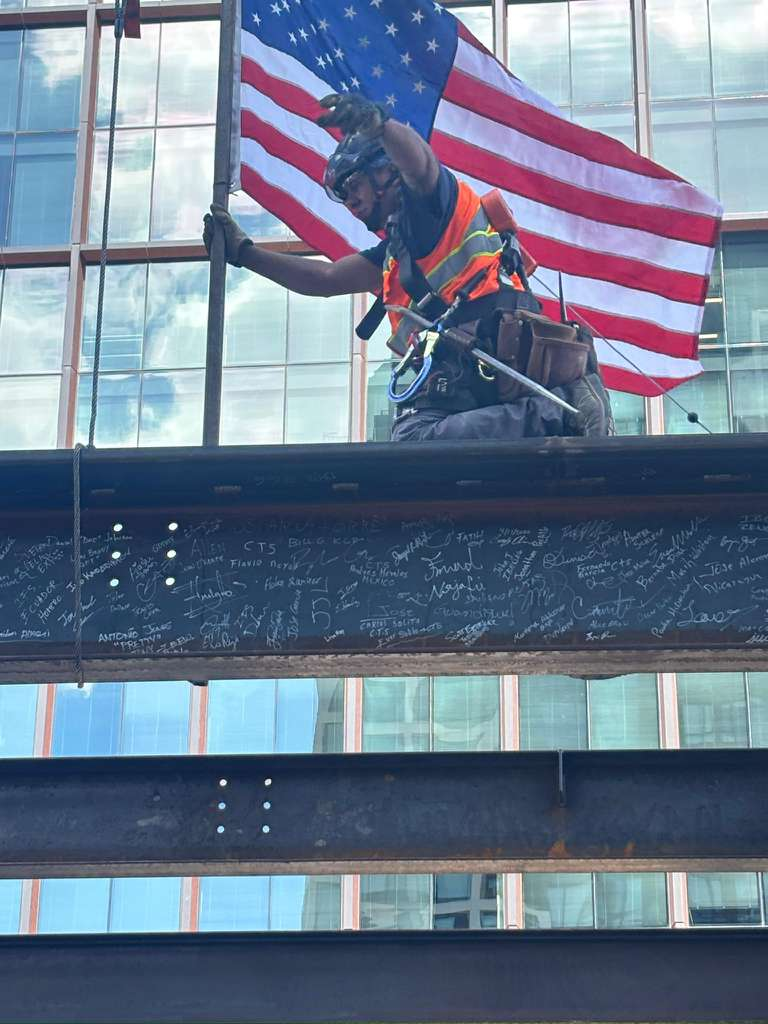
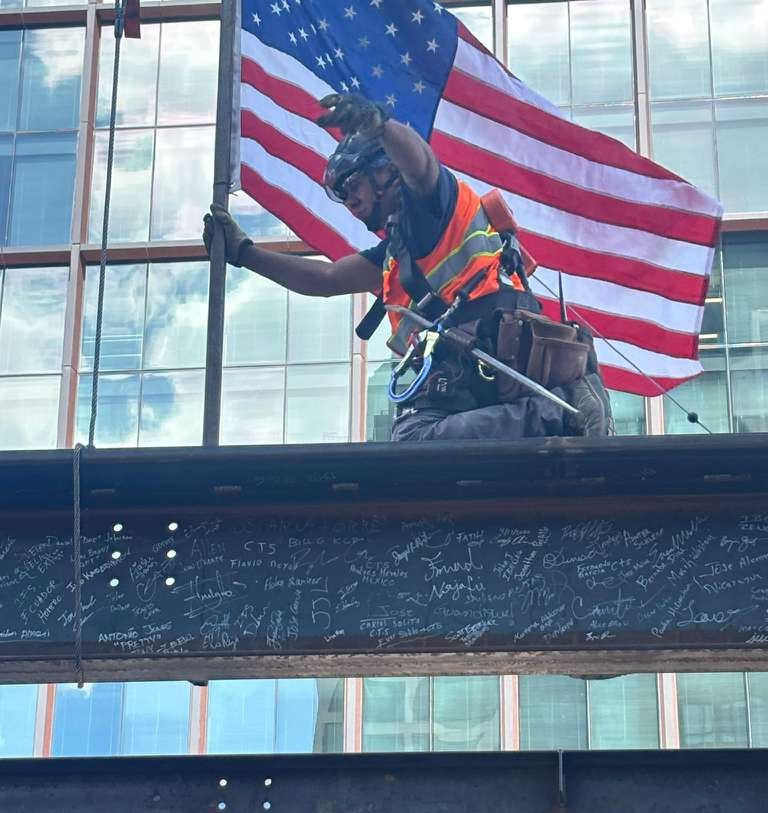
feat: add about, partners, and main pages with hero slider and navigation components

diff --git a/src/app/partners/page.tsx b/src/app/partners/page.tsx
@@ -7,47 +7,73 @@ export default function Partners() {
     { name: "CBG", image: "/images/Partners logos/CBG-Logo.png" },
     { name: "GCS-SIGAL", image: "/images/Partners logos/GCS-SIGAL-Logo.jpg" },
     { name: "Grunley", image: "/images/Partners logos/Grunley-Logo.jpg" },
-    { name: "Iron Fab INC", image: "/images/Partners logos/Iron Fab INC Logo.png" },
     { name: "NRP Group", image: "/images/Partners logos/NRP Group-Logo.png" },
     { name: "SIE", image: "/images/Partners logos/SIE cropped Logo.png" },
-    { name: "SmootDC", image: "/images/Partners logos/SmootDC-Logo.png" }
+    { name: "SmootDC", image: "/images/Partners logos/SmootDC-Logo.png" },
   ];
 
   return (
-    <div style={{ paddingTop: '100px', minHeight: '100vh', background: 'transparent' }}>
+    <div
+      style={{
+        paddingTop: "100px",
+        minHeight: "100vh",
+        background: "transparent",
+      }}
+    >
       <div className="container section">
-        <h1 className="section-title">Our <span>Partners</span></h1>
-        
-        <div style={{ background: '#FFFFFF', padding: 'clamp(1.5rem, 5vw, 4rem)', border: '1px solid var(--color-border)', borderRadius: '4px', boxShadow: '0 4px 10px rgba(0,0,0,0.05)' }}>
-          <div style={{ display: 'grid', gridTemplateColumns: 'repeat(auto-fit, minmax(200px, 1fr))', gap: '4rem', alignItems: 'center', justifyItems: 'center' }}>
+        <h1 className="section-title">
+          Our <span>Partners</span>
+        </h1>
+
+        <div
+          style={{
+            background: "#FFFFFF",
+            padding: "clamp(1.5rem, 5vw, 4rem)",
+            border: "1px solid var(--color-border)",
+            borderRadius: "4px",
+            boxShadow: "0 4px 10px rgba(0,0,0,0.05)",
+          }}
+        >
+          <div
+            style={{
+              display: "grid",
+              gridTemplateColumns: "repeat(auto-fit, minmax(200px, 1fr))",
+              gap: "4rem",
+              alignItems: "center",
+              justifyItems: "center",
+            }}
+          >
             {partners.map((partner, index) => (
-              <div key={index} style={{
-                display: 'flex',
-                alignItems: 'center',
-                justifyContent: 'center',
-                padding: '1rem',
-                width: '100%',
-                height: '120px',
-                background: '#FFFFFF',
-                borderRadius: '8px',
-                transition: 'transform 0.3s ease, box-shadow 0.3s ease',
-                cursor: 'pointer',
-                position: 'relative'
-              }}
-              onMouseEnter={(e) => {
-                e.currentTarget.style.transform = 'translateY(-5px)';
-                e.currentTarget.style.boxShadow = '0 10px 20px rgba(0,0,0,0.1)';
-              }}
-              onMouseLeave={(e) => {
-                e.currentTarget.style.transform = 'translateY(0)';
-                e.currentTarget.style.boxShadow = 'none';
-              }}
+              <div
+                key={index}
+                style={{
+                  display: "flex",
+                  alignItems: "center",
+                  justifyContent: "center",
+                  padding: "1rem",
+                  width: "100%",
+                  height: "120px",
+                  background: "#FFFFFF",
+                  borderRadius: "8px",
+                  transition: "transform 0.3s ease, box-shadow 0.3s ease",
+                  cursor: "pointer",
+                  position: "relative",
+                }}
+                onMouseEnter={(e) => {
+                  e.currentTarget.style.transform = "translateY(-5px)";
+                  e.currentTarget.style.boxShadow =
+                    "0 10px 20px rgba(0,0,0,0.1)";
+                }}
+                onMouseLeave={(e) => {
+                  e.currentTarget.style.transform = "translateY(0)";
+                  e.currentTarget.style.boxShadow = "none";
+                }}
               >
-                <Image 
-                  src={partner.image} 
-                  alt={partner.name} 
+                <Image
+                  src={partner.image}
+                  alt={partner.name}
                   fill
-                  style={{ objectFit: 'contain', padding: '1rem' }}
+                  style={{ objectFit: "contain", padding: "1rem" }}
                   sizes="(max-width: 768px) 100vw, 200px"
                 />
               </div>

diff --git a/src/app/about/page.tsx b/src/app/about/page.tsx
@@ -41,10 +41,22 @@ export default function About() {
             <PanoramaSlider
               aspectRatio="16/7"
               images={[
-                { src: "/images/project_gallery/224009-1250 Maryland Ave-2.jpeg", alt: "1250 Maryland Ave view 1" },
-                { src: "/images/project_gallery/224009-1250 Maryland Ave-1.jpeg", alt: "1250 Maryland Ave view 2" },
-                { src: "/images/project_gallery/224009-1250 Maryland Ave.jpeg",   alt: "1250 Maryland Ave view 3" },
-                { src: "/images/project_gallery/B4DD675F-05CF-4FB9-97D4-8098E75EAF0A.jpeg", alt: "Steel structure" },
+                {
+                  src: "/images/project_gallery/224009-1250 Maryland Ave-2.jpeg",
+                  alt: "1250 Maryland Ave view 1",
+                },
+                {
+                  src: "/images/project_gallery/224009-1250 Maryland Ave-1.jpeg",
+                  alt: "1250 Maryland Ave view 2",
+                },
+                {
+                  src: "/images/project_gallery/224009-1250 Maryland Ave.jpeg",
+                  alt: "1250 Maryland Ave view 3",
+                },
+                {
+                  src: "/images/project_gallery/B4DD675F-05CF-4FB9-97D4-8098E75EAF0A.jpeg",
+                  alt: "Steel structure",
+                },
               ]}
             />
             {/* Bottom Row - 2 Verticals */}
@@ -64,11 +76,12 @@ export default function About() {
                   borderRadius: "12px",
                   overflow: "hidden",
                   boxShadow: "0 10px 30px rgba(0,0,0,0.08)",
-                  transition: "all 0.4s cubic-bezier(0.175, 0.885, 0.32, 1.275)",
+                  transition:
+                    "all 0.4s cubic-bezier(0.175, 0.885, 0.32, 1.275)",
                 }}
               >
                 <Image
-                  src="/images/224011_tempImage.jpeg"
+                  src="/images/project_gallery/224002-OMVHS.jpeg"
                   alt="Mission Vertical 1"
                   fill
                   style={{ objectFit: "cover" }}
@@ -81,11 +94,12 @@ export default function About() {
                   borderRadius: "12px",
                   overflow: "hidden",
                   boxShadow: "0 10px 30px rgba(0,0,0,0.08)",
-                  transition: "all 0.4s cubic-bezier(0.175, 0.885, 0.32, 1.275)",
+                  transition:
+                    "all 0.4s cubic-bezier(0.175, 0.885, 0.32, 1.275)",
                 }}
               >
                 <Image
-                  src="/images/225010_Malcoml.jpeg"
+                  src="/images/project_gallery/222013-North Moore3.jpeg"
                   alt="Mission Vertical 2"
                   fill
                   style={{ objectFit: "cover" }}

diff --git a/src/components/Navbar.tsx b/src/components/Navbar.tsx
@@ -24,8 +24,10 @@ export default function Navbar() {
       borderBottom: '1px solid var(--color-border)' 
     }}>
       <div className="container" style={{ display: 'flex', justifyContent: 'space-between', alignItems: 'center' }}>
-        <Link href="/">
+        <Link href="/" style={{ display: 'flex', alignItems: 'center', gap: '10px' }}>
           <img src="/images/logo/IronFab_Logo.png" alt="Iron Fabrication Services, LLC." style={{ height: '52px', objectFit: 'contain', objectPosition: 'left center' }} />
+          <span style={{ width: '1px', height: '36px', background: 'var(--color-border)', display: 'inline-block' }} />
+          <img src="/images/logo/Iron Fab INC Logo.png" alt="Iron Fabrication Services, Inc." style={{ height: '44px', objectFit: 'contain', objectPosition: 'left center' }} />
         </Link>
 
         <div className={`nav-links-container ${isOpen ? 'open' : ''}`}>

diff --git a/src/app/page.tsx b/src/app/page.tsx
@@ -8,8 +8,8 @@ export default function Home() {
       <section
         style={{
           position: "relative",
-          height: "100vh",
-          minHeight: "600px",
+          height: "115vh",
+          minHeight: "750px",
           display: "flex",
           alignItems: "center",
           paddingTop: "80px",
@@ -30,13 +30,11 @@ export default function Home() {
               }}
             >
               Precision in <br />
-              <span style={{ color: "var(--color-steel-blue)" }}>
-                every Beam.
-              </span>
+              every <span style={{ color: "#7B0D1E" }}>Beam.</span>
               <br />
               Quality in
               <br />
-              <span style={{ color: "var(--color-primary)" }}>every Weld.</span>
+              every <span style={{ color: "#C0152A" }}>Weld.</span>
             </h1>
 
             <p

diff --git a/src/components/HeroSlider.tsx b/src/components/HeroSlider.tsx
@@ -5,6 +5,7 @@ import Image from "next/image";
 import "./heroslider.css";
 
 const images = [
+  "/images/project_gallery/224011-Templeton4.jpeg",
   "/images/project_gallery/224009-1250 Maryland Ave-2.jpeg",
   "/images/project_gallery/223011-Crystal Metro Entrance.jpeg",
   "/images/project_gallery/224006-Inova.jpeg",
